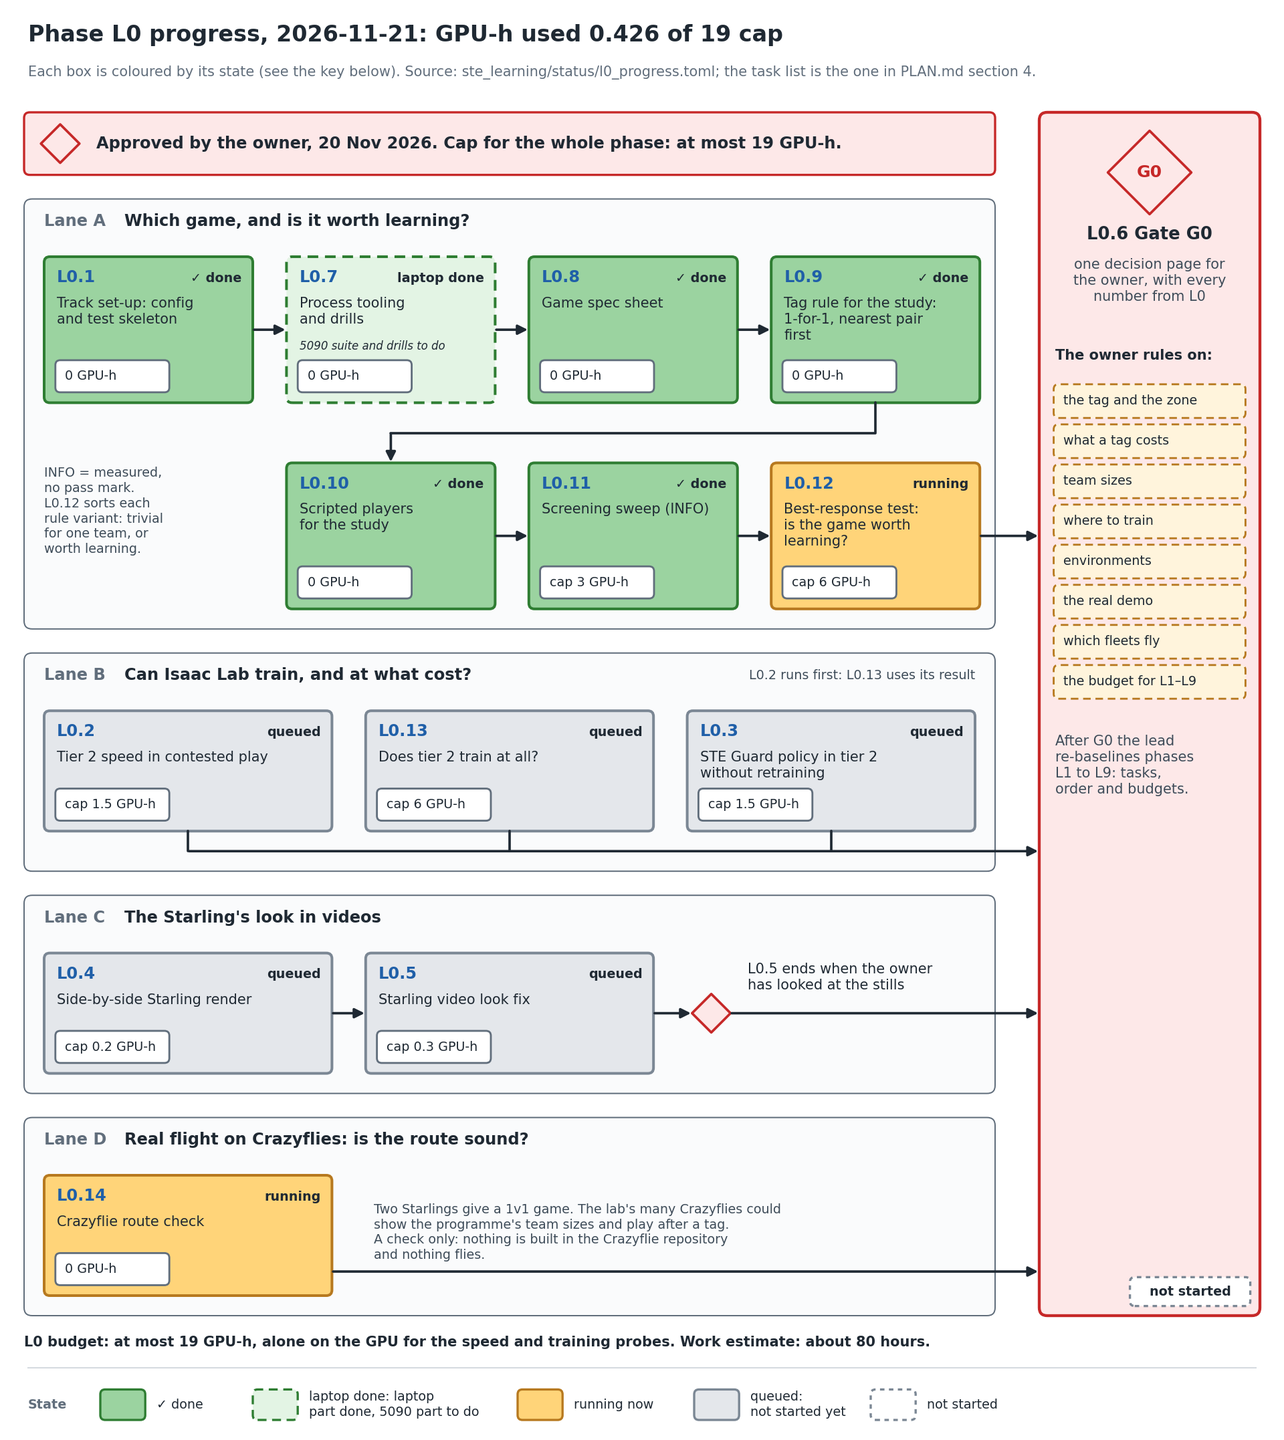
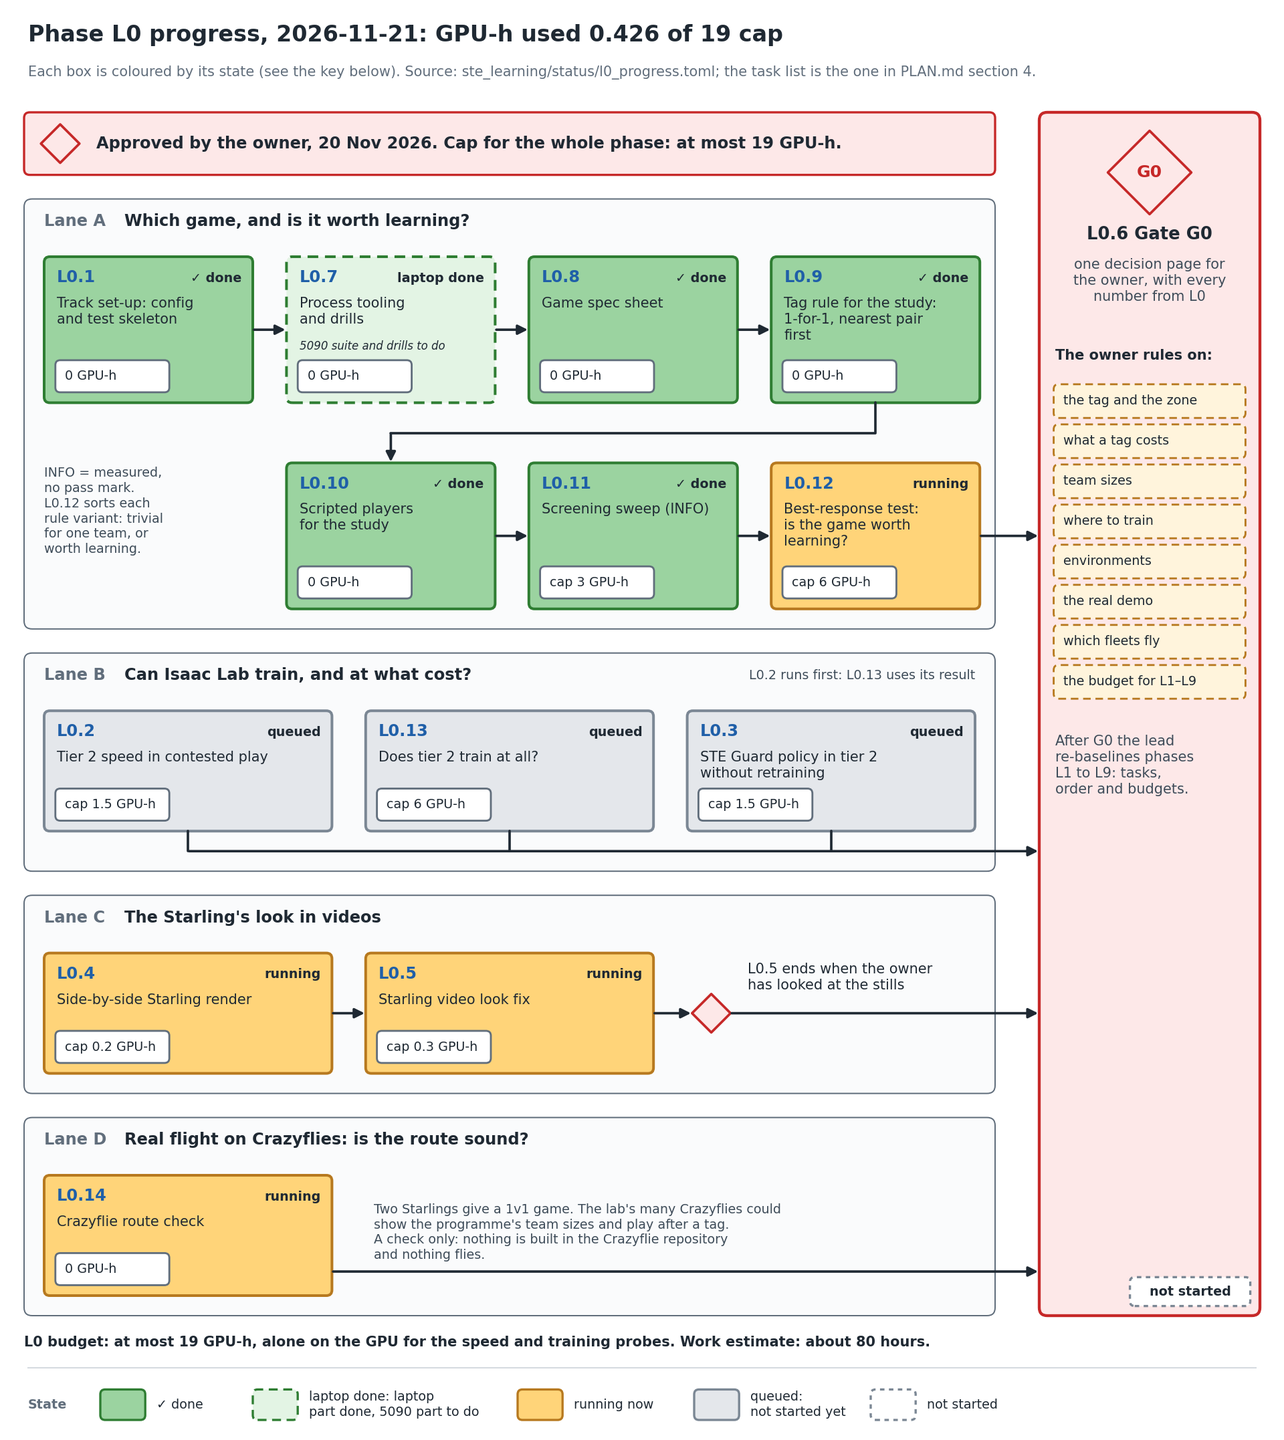
svg_training status: L0.4/L0.5 and VID-1 started; progress flowchart updated

Changed region(s): [[0.0312, 0.6532, 0.5312, 0.7465]]

diff --git a/svg_training/ste_learning/status/LOG.md b/svg_training/ste_learning/status/LOG.md
@@ -5899,3 +5899,137 @@ Laptop drills (21 Nov, fix branch, shared folder `~/AirStack-starling-max2/svg_t
 **Waiting on you.** Nothing; no GPU job is running.
 
 **Correction.** The 21 Nov question on NUS values listed "speeds 0.6 / 1.2". The L0.8 review reads those two numbers as the decision period (0.6 s) and the flight height (1.2 m); the speeds are 0.5 and 0.333 m/s. Your Yes covers all of them as written on the sheet.
+
+## 2026-11-21 06:17
+
+**Status, 2026-11-21 06:17 (+08:00), event: L0.4/L0.5 and the 3-D video renderer (VID-1) started**                                                             · laptop RTX 5070 Ti · GPU 46 % / 19 W / 1.4 GB of 12 GB · 0 training processes (0 paused)
+
+### Watch (latest clips and figures)
+
+L0.11 Screening sweep (T44), scripted players, training simulator tier 1, top-down view (2-D; the 3-D Isaac Lab videos
+of these games come with VID-1). Each ends within about 3 s in a one-for-one trade.
+
+| Guard field v Strike converge (base 3v3) | Guard mark edge v Strike sacrifice (base 3v3) | Parked ring v Strike straight (base 3v3) |
+|---|---|---|
+| ![](../../docs/media/ste_l011/guard_field_v_strike_converge.gif) | ![](../../docs/media/ste_l011/guard_mark_edge_v_strike_sacrifice.gif) | ![](../../docs/media/ste_l011/guard_parked_ring_v_strike_straight.gif) |
+
+Best scripted Guard's worst-case hold (H, blue) and best scripted Strike's worst-case reach (R, orange) per factor:
+
+![](../../docs/figures/ste_l011/factors.png)
+
+Where phase L0 is: green done, light green laptop part done, amber running, grey queued (state file
+`ste_learning/status/l0_progress.toml`, figure by `scripts/make_ste_learning_figures.py l0_progress`).
+
+![](../figures/l0_progress.png)
+
+What the drones look like in the 3-D simulator (Isaac Lab Starlings, from S2b; the L0 games get 3-D videos with VID-1):
+
+![](../../docs/media/s2b_still_starlings_close.png)
+
+### Phases
+
+| Phase | Status | Math library | Simulator | What |
+|---|---|---|---|---|
+| NUS port Phases 1–4 | DONE | JAX (NUS), PyTorch | NUS 2-D game (JAX), Copy of NUS 2-D game (PyTorch), tier 2 Isaac Lab | NUS's code installed, game and policies copied to PyTorch, six tests towards STE drones |
+| NUS port Phase 5 | PAUSED (lead call D8) | PyTorch | Copy of NUS 2-D game (PyTorch), tier 1 fast engine | 5.1 Method match FAIL (T43); STE Guard policy 829 of 1,000 (T41) |
+| NUS port Phase 6 | DONE | none | none | public documents with videos |
+| ▶ L0 Game definition and feasibility | RUNNING (approved 20 Nov, cap 19 GPU-h) | PyTorch | tier 1 fast engine, tier 2 Isaac Lab | which game, worth learning, can tier 2 train, is the Crazyflie route sound |
+| L1–L8 | NOT STARTED | PyTorch | as ruled at gate G0 | drone model, rules, learner, evaluation, league, export, AirStack side, real flight |
+| L9 Documentation | RUNNING | none | none | status, records, results page |
+
+### Phase L0 Game definition and feasibility, task by task
+
+| ID | Plain name | Status | Simulator | Result / ETA |
+|---|---|---|---|---|
+| L0.1 | Track set-up: config and test skeleton | DONE | none | settings file, loader, tests; independent QC closed all findings |
+| L0.7 | Process tooling and drills | RUNNING (laptop part DONE) | none | merged into `development`; laptop: full suite 1,420 passed / 0 failed, wake-up drill and resume drill both as expected (below); DONE when the 5090 has run the same (L07-5090) |
+| L0.8 | Game spec sheet | DONE | none | merged into `development`; QC passed; full suite on `development` 1,461 passed / 0 failed (41 min) |
+| L0.9 | Tag rule for the study: 1-for-1, nearest pair first | DONE | tier 1 fast engine | merged; QC + re-check passed; full suite on `development` 1,517 passed / 0 failed (31 min); the 5090 records its own tag-off positions (L09-5090) |
+| L0.10 | Scripted players for the study | DONE | tier 1 fast engine | merged; QC + 2 re-checks passed; full suite on `development` 1,600 passed / 0 failed (56 min, CPU shared with the L0.11 GPU jobs) |
+| L0.11 | Screening sweep (INFO) | DONE | tier 1 fast engine | record T44 (every control PASS; shortlist base (reference), tag 1.2 m, tag 1.4 m; every hold a one-for-one trade) + follow-up checks; merged into `development`; full suite 1,685 passed / 0 failed (27 min) |
+| L0.12 | Best-response test: is the game worth learning? | RUNNING (pre-launch QC) | tier 1 fast engine | committed on `ste-l0.12` (4 commits: height panel, core + gate, trainer, driver + docs; 132 tests pass); its evaluation replays T44 exactly; Strike recipe pre-registered (T41 → distance shaping → not launched, decided on the probe against the training opponent); independent pre-launch QC running; then the GPU pilot |
+| L0.2 | Tier 2 speed in contested play | NOT STARTED | tier 2 Isaac Lab | laptop allowed (owner, 21 Nov): runs alone on the GPU, measures what fits in 12 GB; cap 1.5 GPU-h |
+| L0.13 | Does tier 2 train at all? | NOT STARTED | tier 2 Isaac Lab | laptop allowed (owner, 21 Nov), after L0.2, at the games-at-once L0.2 shows fits; cap 6 GPU-h |
+| L0.3 | STE Guard policy in tier 2 without retraining | NOT STARTED | tier 2 Isaac Lab | unblocked (T41 on both machines); runs on the laptop GPU, taking turns with L0.12's GPU runs (one GPU job at a time); cap 1.5 GPU-h |
+| L0.4 | Side-by-side Starling render | RUNNING | tier 2 Isaac Lab | builder on `ste-l0.4`: the AirStack simulator's Starling asset rendered in Isaac Lab beside our clips' look, with and without team paint (stills); cap 0.2 GPU-h |
+| L0.5 | Starling video look fix | RUNNING | tier 2 Isaac Lab | same builder: the Starling's own look, team colour as a small marker; stills for your look (D9); cap 0.3 GPU-h |
+| L0.14 | Crazyflie route check | RUNNING (CPU) | tier 1 fast engine (CPU) | builder on `ste-l0.14`: T41 scored with a Crazyflie-like 0.56 s lag beside the Starling's (INFO), the offline-planner team-size check repeated (Crazyflie repository read-only), the adapter spec; one page for G0; 0 GPU-h. Lead's note: it could have run beside lane A since T41 arrived; started now |
+| L0.6 | Gate G0 | NOT STARTED | none | after every task above; the owner decides |
+
+GPU-h used in L0 so far: 0.426 of 19 (RTX 5090: 0, from its last status; laptop: 0.426 = L0.11 pilot 0.034 + CUDA smoke 0.087 + sweep 0.305).
+
+Laptop full CPU suite (20 Nov, `development` at 5c5d465, after `scripts/nus_install_provisional.sh`): **1,333 passed, 2 failed, 48 skipped** in 24 min. Both failures repeat when run alone:
+- **L07-F1** `test_ste_job.py::test_f_d_a_killed_job…resumes`: CONFIRMED by QC: the tool does not over-report (it measures from the same start; ~0.255 s raw, printed rounded to 0.3); the test compares the rounded text with the exact elapsed time. Fix: allow half a display step.
+- **TEST-F2** `test_train_standin.py::test_default_path_bit_identical_after_the_nus_hooks`: FIXED (447b317). Measured on the laptop: the hash repeats (75d2a955…), hold rates equal the recorded [0.25, 0.375], and forcing PyTorch's CPU capability down changes the hash; threads (trainer runs one) and local files (not read on this path) ruled out. The fingerprint is now one hash per CPU capability; hold rates are checked on every machine.
+
+### Usage (laptop session, 20 Nov 22:00 to now)
+
+| What | Agent tokens | Wall time | Note |
+|---|---|---|---|
+| L0.7 fixes: builder, 7 fixes one at a time | ~400 k | ~51 min | the largest: each fix re-reads the tooling and its tests |
+| L0.8 Game spec sheet: builder, build + 2 fix rounds | ~320 k | ~50 min | includes its own 25-min full suite |
+| L0.7 independent QC + re-check | ~246 k | ~18 min | reproduced C1 and I1 in a scratch folder |
+| L0.8 independent QC + re-check | ~209 k | ~12 min | mutation tests on the sheet |
+| L0.9 Tag rule: builder (build + fix round) | ~358 k | ~66 min | the first 50 min slowed by sharing the CPU with the L0.7 suite |
+| L0.9 independent QC + re-check | ~239 k | ~31 min | ran its own reference matcher, mutants and old-vs-new games |
+| L0.10 Scripted players: builder (build + rulings + 2 QC fix rounds) | ~420 k | ~56 min | |
+| L0.10 independent QC (+ 2 re-checks) | ~353 k | ~71 min | 84 deliberate breakages over two rounds; its own geometry probes on 30,000+ starts |
+| L0.11 sweep build (CPU, build + rulings + rebase + QC fixes + follow-ups) | ~677 k | ~106 min | the largest single task so far; a fresh builder takes L0.12 to avoid re-reading this context |
+| L0.12 groundwork builder | ~550 k | ~54 min | |
+| L0.12 pre-launch QC | running | running | |
+| L0.11 pre-launch QC | ~293 k | ~24 min | broke the code five ways through the real driver |
+| L0.11 CUDA smoke | | ~5 min | 0.087 GPU-h |
+| L0.11 independent QC (pre-launch, re-check, results read) | ~419 k | ~45 min | |
+| L0.11 sweep | | 18 min | 0.305 GPU-h (L0.11 total 0.426 of 3.0) |
+| L0.11 GPU pilot | | 2 min | 0.034 GPU-h (first GPU job of the track) |
+| Full CPU test suite | none | ~25 min alone; the L0.7 merge run took 61 min (shared the CPU with L0.9's tests) | rule from now: one heavy test run at a time |
+| GPU | 0 GPU-h | | nothing has used the GPU |
+
+Sub-agents total about 1.2 M tokens so far; the lead's own context is not measured by the tools here.
+
+Laptop drills (21 Nov, fix branch, shared folder `~/AirStack-starling-max2/svg_training/runs/shared/`, no owner pause open):
+- Wake-up: `L0.7 l07_wakeup DONE exit=0 duration=120.4s effective=120.4s`, `waiter exit 0` (the background waiter's end was the wake-up).
+- Resume: `alive` → simulated power cut (`kill -KILL` of the process group at step 30) → `dead`; waiter `DIED exit=none duration=31.2s`, `waiter exit 21`; relaunch with `bash cmd.txt` from a shell with a wrong `PYTHONPATH` and `SVG_SHARED_DIR` → `launch=2`, `resumed from step 30 of 120`, `DONE exit=0 duration=90.4s effective=90.4s run_effective=120.3s`, `waiter exit 0`, `{"steps": 120, "total": 7260.0}`; the wrong shared folder was never created.
+
+### Other workstreams
+
+| ID | Plain name | Status |
+|---|---|---|
+| SYNC-1 | Branch `development` on both machines; laptop worktree `~/AirStack-starling-max2-dev` | DONE |
+| SYNC-2 | Status skill `train-status` and the owner's standing rules in CLAUDE.md | DONE |
+| SYNC-3 | Root `CLAUDE.md` and every page: training work lands on `development` | DONE |
+| SYNC-4 | STE Guard policy (T41 run folder) in the PROVISIONAL bundle | DONE; installed on the laptop (46 files, agent.pt c91bea51…) |
+| L07-F1 | Fix: waiter-duration test bound (rounding) (QC I5) | DONE (a4100d0; 30 of 30 runs pass; L0.7 test files 217 passed) |
+| L07-C1 | Fix: an open pause takes time off every job, and launch does not check for one: a job launched during a pause runs on the GPU with 0 GPU-h counted and its cap never fires | DONE (79effa0 on branch ste-l0.7-fix; red 48 failed, then L0.7 + NUS pause tests 251 passed). Pauses still always logged; launch refuses while one is open; a pause counts only against the jobs it stopped |
+| L07-I1 | Fix: a new run reusing an old job name inherits that job's GPU-hours as credit (task cap can be exceeded) | DONE (05dd547; credit keyed by job name + run folder; red 24 failed, then 256 passed) |
+| L07-I2 | Fix: `cmd.txt` relaunch loses the environment (PYTHONPATH, CUDA alloc setting, shared-folder path) | DONE (d0661f4; cmd.txt replays the first launch's environment; a different shared folder is refused; resume drill uses bash cmd.txt; red 3 failed, then 259 passed) |
+| L07-I3 | Fix: the launcher's wrapper can die (clock step back, full disk) while the job runs on: GPU time stops being logged | DONE (1ca8a70; every wrapper write survives an error, records a fault and retries; red 8 failed, then 267 passed) |
+| L07-I4 | Fix: a job resumed after a reboot is flagged ENDED_EARLY (exit 20) though it finished correctly | DONE (70fc1a3; judged on the trainer's saved progress across launches; red: drill pattern read 20; then 280 passed) |
+| L08-F1 | Finding: the hangar's Strike start ring (3.2 m from the zone centre) does not fit the 6.5 m lab arena (drones kept within 3.0 m); a ring for 6.5 m is needed before L0.11's base case | CLOSED (lead's call): Strike start ring 2.75 m for the 6.5 m arena, PROPOSED, ruled at G0 |
+| L07-C1b | Fix: our own "pause the siblings, run solo" step (AUTOMATION §2.2) is now refused too; lead's design: pauses the session makes are tagged and do not block launch, your pauses still do | DONE (ef38534; `GPU_PAUSE_BY=lead` tags the session's pauses; a bare `gpu_pause.sh pause` is still yours and still blocks; red 13 failed, then 298 passed) |
+| L07-C1c | Fix: a session-tagged resume must refuse while any of your pauses is open (a resume today continues every job and closes your pauses too) | DONE (efa9ec1; a bare resume/stop is unchanged; red 4 failed, then 304 passed) |
+| GIT-1 | Fix: my 17 Nov `.gitignore` line `data/` also hid new files in `tests/data/` | DONE (d3572dc: anchored to `/data/`) |
+| L011-F1 | Finding: scripted players decide every 0.05 s tick, not at the sheet's 0.6 s decision period; the sweep measures scripted play at 0.05 s; L0.12's trainers must set their decision period explicitly (T41 used 0.6 s) | OPEN: written into the L0.11 gate file and record |
+| L07-SUSPEND | Tooling: a laptop sleep during a GPU job is counted as GPU-hours and as time towards the job's cap (wall clock). Rule until fixed: never let the laptop sleep during a GPU job | QUEUED (tooling task); rule in force now |
+| L011-G0 | Finding for gate G0 (T44, scripted play): (1) every hold is a one-for-one trade — no tag-on game times out, and at 1v1 and 3v3 a Guard win leaves no Guard — so head-count decides (PLAN F1; bears on what a tag costs, P12); (2) the programme's sizes 2v1 and 5v3, and 1v1, are Guard-trivial with scripted players at the proposed rules; candidate cause: tag radius 1.6 m = zone radius 1.6 m with Guards starting on a circle near the zone centre (not tested). L0.12 measures whether learning changes either | OPEN: reported at G0 |
+| L010-G0 | Finding for gate G0 (from L0.10 QC): any safety-filter move near the 1.6 m tag radius can create a tag nobody chose (the filter's 1.10 m keep-out is inside the tag radius). Spaced starts remove it at the start; during play it is part of the game the sweep measures (P1) | OPEN: reported at G0 |
+| L09-5090 | On the 5090: record the tag-off golden's positions for its CPU type (AVX512); check the outcome fingerprints there | WAITING: next 5090 session |
+| DOC-1 | A phase-L0 flowchart coloured by progress (done / running / queued), regenerated with each status and shown in its Watch section (owner, 21 Nov: "photos or diagram flow charts would be good too") | DONE (progress flowchart; regenerated with each status) |
+| VID-1 | Clips: a height panel on the 2-D top-down clips of every run; 3-D Isaac Lab videos (Starling look, top view + 3-D view, MP4 + GIF) of each result's key games, starting with L0.11's (lead's recommendation adopted, 21 Nov) | RUNNING (3-D renderer: replay a recorded game in Isaac Lab, top view + 3-D view; first the L0.11 key games) |
+| L08-M | L0.8 minors left: 3 hangar values unchecked on a clone without the NUS bundle; 3 values whose wrong value still passes; loader refuses some honest wording; tests tied to exact lines and the AirStack fence file | PARKED |
+| L07-DISK | Follow-up: the planned disk-space check (a disk full through 10 retries at a job's end reads DIED) | PARKED (stated limit) |
+| L07-N | Re-check minors N1–N4: a session pause also lands in the old per-worktree log the NUS reader uses; full disk can hold the wrapper 10 min after the end; AUTOMATION §4 still states the old GPU-hour rule; on the 5090 run `scripts/ste_job.py owner-pauses` before the drills | PARKED (N4 goes into the 5090 note) |
+| L07-M | QC's 10 minor findings (+3 from the C1 build: pid-only matching, test pause pattern shared across sessions, pid reuse) (runs/ste_l07/qc_report.md) | PARKED until the six fixes land |
+| L07-5090 | L0.7 on the 5090: full CPU suite and the two drills there (L0.7 is DONE only after both machines) | WAITING: next 5090 session |
+| TEST-F2 | Fix: bit-level training fingerprint is machine-specific | DONE (447b317; trainer test file 43 passed, 1 skipped) |
+| TEST-F2b | On the 5090: confirm its CPU capability is AVX512 (the key its 18 Nov hash is now filed under) | WAITING: next 5090 session runs the test (fails or skips loudly if wrong) |
+
+**Machines (owner, 21 Nov):** no task is 5090-only. The RTX 5090 (32 GB) suits memory-heavy runs; the laptop RTX 5070 Ti (12 GB) runs everything sized to fit, and the record says which machine. Only machine checks stay with their machine: TEST-F2b, L07-5090, L09-5090. **Schedule:** weekends the laptop runs the pipeline (the 5090 is free for gaming); weekdays the 5090 does (the laptop goes to work). **This weekend:** the owner packs the laptop **Mon 23 Nov 10:00**: no GPU job starts unless it can end by **Mon 08:00**; by **09:30** everything is committed, HANDOFF §0 and status written, ready to push.
+
+**GPU queue on the laptop (one at a time for speed measurements):** L0.12 pilot → L0.4 → L0.5 → VID-1 (3-D clips, L0.11 re-rendered) → L0.12 trainings → L0.2 → L0.3 → L0.13.
+
+**Next.** (1) L0.11 follow-up checks (CPU). (2) L0.12 Best-response test: the lead's gate change (advisor, Fable 5.2): T44 already settles the PLAN's 0.2 bands for the tag variants, so the gate will read the better of script and trained exploiter and measure how far the exploiter gets above the script, with Guards-left and game length reported; trainer path verified on CPU first (the tag-on game files, Strike side, a positive control reproducing a T44 cell); reviewer reads the gate before launch. (3) Merge L0.11 after its follow-up checks and its own suite.
+
+**Waiting on you.** Nothing; no GPU job is running.
+
+**Correction.** The 21 Nov question on NUS values listed "speeds 0.6 / 1.2". The L0.8 review reads those two numbers as the decision period (0.6 s) and the flight height (1.2 m); the speeds are 0.5 and 0.333 m/s. Your Yes covers all of them as written on the sheet.

diff --git a/svg_training/ste_learning/status/STATUS_LATEST.md b/svg_training/ste_learning/status/STATUS_LATEST.md
@@ -1,6 +1,6 @@
 INTERNAL · the latest status of STE's own learning track and the NUS port, overwritten at every update; the history is in [LOG.md](LOG.md). Produced by the `train-status` skill.
 
-**Status, 2026-11-21 06:17 (+08:00), event: L0.12 committed on its branch (4 commits); pre-launch QC running**                                                            · laptop RTX 5070 Ti · GPU 46 % / 19 W / 1.4 GB of 12 GB · 0 training processes (0 paused)
+**Status, 2026-11-21 06:17 (+08:00), event: L0.4/L0.5 and the 3-D video renderer (VID-1) started**                                                             · laptop RTX 5070 Ti · GPU 46 % / 19 W / 1.4 GB of 12 GB · 0 training processes (0 paused)
 
 ## Watch (latest clips and figures)
 
@@ -49,8 +49,8 @@ What the drones look like in the 3-D simulator (Isaac Lab Starlings, from S2b; t
 | L0.2 | Tier 2 speed in contested play | NOT STARTED | tier 2 Isaac Lab | laptop allowed (owner, 21 Nov): runs alone on the GPU, measures what fits in 12 GB; cap 1.5 GPU-h |
 | L0.13 | Does tier 2 train at all? | NOT STARTED | tier 2 Isaac Lab | laptop allowed (owner, 21 Nov), after L0.2, at the games-at-once L0.2 shows fits; cap 6 GPU-h |
 | L0.3 | STE Guard policy in tier 2 without retraining | NOT STARTED | tier 2 Isaac Lab | unblocked (T41 on both machines); runs on the laptop GPU, taking turns with L0.12's GPU runs (one GPU job at a time); cap 1.5 GPU-h |
-| L0.4 | Side-by-side Starling render | NOT STARTED | tier 2 Isaac Lab | laptop GPU, taking turns with L0.12; cap 0.2 GPU-h |
-| L0.5 | Starling video look fix | NOT STARTED | tier 2 Isaac Lab | after L0.4; cap 0.3 GPU-h |
+| L0.4 | Side-by-side Starling render | RUNNING | tier 2 Isaac Lab | builder on `ste-l0.4`: the AirStack simulator's Starling asset rendered in Isaac Lab beside our clips' look, with and without team paint (stills); cap 0.2 GPU-h |
+| L0.5 | Starling video look fix | RUNNING | tier 2 Isaac Lab | same builder: the Starling's own look, team colour as a small marker; stills for your look (D9); cap 0.3 GPU-h |
 | L0.14 | Crazyflie route check | RUNNING (CPU) | tier 1 fast engine (CPU) | builder on `ste-l0.14`: T41 scored with a Crazyflie-like 0.56 s lag beside the Starling's (INFO), the offline-planner team-size check repeated (Crazyflie repository read-only), the adapter spec; one page for G0; 0 GPU-h. Lead's note: it could have run beside lane A since T41 arrived; started now |
 | L0.6 | Gate G0 | NOT STARTED | none | after every task above; the owner decides |
 
@@ -113,7 +113,7 @@ Laptop drills (21 Nov, fix branch, shared folder `~/AirStack-starling-max2/svg_t
 | L010-G0 | Finding for gate G0 (from L0.10 QC): any safety-filter move near the 1.6 m tag radius can create a tag nobody chose (the filter's 1.10 m keep-out is inside the tag radius). Spaced starts remove it at the start; during play it is part of the game the sweep measures (P1) | OPEN: reported at G0 |
 | L09-5090 | On the 5090: record the tag-off golden's positions for its CPU type (AVX512); check the outcome fingerprints there | WAITING: next 5090 session |
 | DOC-1 | A phase-L0 flowchart coloured by progress (done / running / queued), regenerated with each status and shown in its Watch section (owner, 21 Nov: "photos or diagram flow charts would be good too") | DONE (progress flowchart; regenerated with each status) |
-| VID-1 | Clips: a height panel on the 2-D top-down clips of every run; 3-D Isaac Lab videos (Starling look, top view + 3-D view, MP4 + GIF) of each result's key games, starting with L0.11's (lead's recommendation adopted, 21 Nov) | QUEUED: after L0.4/L0.5 (the Starling look); laptop GPU |
+| VID-1 | Clips: a height panel on the 2-D top-down clips of every run; 3-D Isaac Lab videos (Starling look, top view + 3-D view, MP4 + GIF) of each result's key games, starting with L0.11's (lead's recommendation adopted, 21 Nov) | RUNNING (3-D renderer: replay a recorded game in Isaac Lab, top view + 3-D view; first the L0.11 key games) |
 | L08-M | L0.8 minors left: 3 hangar values unchecked on a clone without the NUS bundle; 3 values whose wrong value still passes; loader refuses some honest wording; tests tied to exact lines and the AirStack fence file | PARKED |
 | L07-DISK | Follow-up: the planned disk-space check (a disk full through 10 retries at a job's end reads DIED) | PARKED (stated limit) |
 | L07-N | Re-check minors N1–N4: a session pause also lands in the old per-worktree log the NUS reader uses; full disk can hold the wrapper 10 min after the end; AUTOMATION §4 still states the old GPU-hour rule; on the 5090 run `scripts/ste_job.py owner-pauses` before the drills | PARKED (N4 goes into the 5090 note) |
